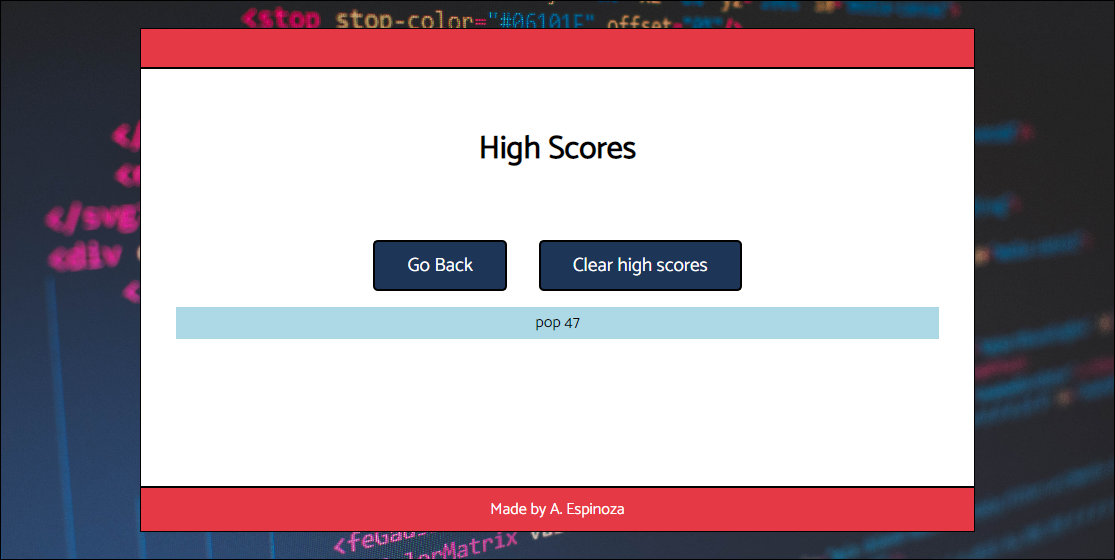
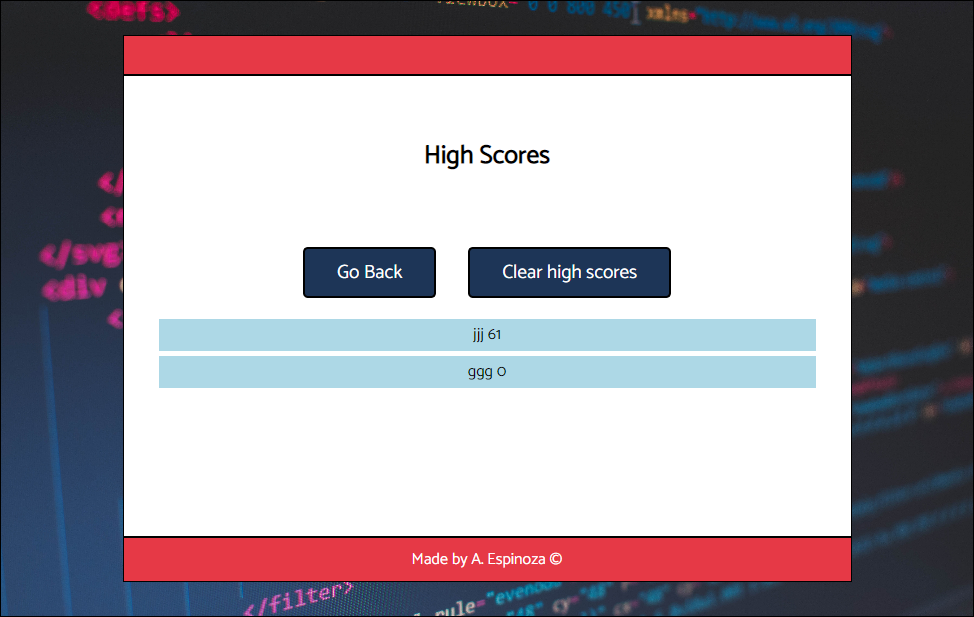
Fixed HTML file structure. Replaced README file screenshot image

diff --git a/index.js b/index.js
@@ -21,7 +21,7 @@ let highScoreList = document.querySelector('.highScoresList')
 let highScoreButtons = document.querySelector('.highScoresbuttons')
 let allScores= []
 
-// questions bank
+// Questions Bank
 const questions = [{
     question: 'Commonly used data types do NOT include:',
     answers: ['alerts', 'strings','booleans','numbers'],
@@ -57,9 +57,7 @@ const questions = [{
 } ]
 
 // Start Game
-
 startBtn.addEventListener('click', startGame)
-
 highScoresEl.addEventListener('click', highScores)
 
 function startGame() {
@@ -70,6 +68,7 @@ function startGame() {
     startQuestion()
 }
 
+// Start timer. stopGame function called when time reaches 0 or all questions answered
 function startTimer() {
     let timerInterval= setInterval(function () {
         timerEl.textContent = 'Time: ' + secondsLeft
@@ -113,7 +112,6 @@ function startQuestion() {
                 console.log(questionIndex)
                 for (let i=0; i<4; i++) {
                     listAnswers.children[i].innerText = questions[questionIndex].answers[i]
-                    // console.log(questions[questionIndex].answers)
                 }
             } else {
                 stopGame()
@@ -122,7 +120,7 @@ function startQuestion() {
         }
   }              
 
-// all questions answered or time out function
+// all questions answered or out of time
 function stopGame() {
     questionText.textContent = 'All done!'
     instructionsText.textContent='Your answered: ' + correctCounter + ' questions correctly. Your score is: ' + secondsLeft
@@ -132,14 +130,13 @@ function stopGame() {
     saveInfoEl.style.display= 'block'
     // console.log(submitBtn)
     submitBtn.addEventListener('click', highScores)
-
     saveInfoEl.addEventListener('click', saveScore)
 }
 
 // high scores display
 function highScores() {
     highScoresEl.textContent= ''
-    timerEl.textContent = ""
+    timerEl.innerHTML = ""
     questionText.textContent = 'High Scores'
     rightResult.style.display= 'none'
     wrongResult.style.display= 'none'
@@ -155,10 +152,6 @@ function highScores() {
     goBackBtn.textContent = 'Go Back'
     highScoreButtons.appendChild(goBackBtn)
     goBackBtn.addEventListener('click', function(){
-        // questionIndex=0;
-        // // highScoreButtons.style.display='none'
-        // highScoreList.style.display='none'
-        // startQuestion()
         window.location.reload()
     })
 
@@ -177,10 +170,7 @@ function highScores() {
 
 // Check if there are previous local storage scores
 let scoresFromLocalStorage = JSON.parse(localStorage.getItem('allScores'))
-console.log(scoresFromLocalStorage)
-console.log(typeof scoresFromLocalStorage)
 if (scoresFromLocalStorage) {
-    // allScores.push(scoresFromLocalStorage)
     allScores= scoresFromLocalStorage
     console.log(allScores, typeof allScores)
 }
@@ -206,17 +196,14 @@ function saveScore(event) {
 function renderScores() {
     highScoreList.innerHTML=''
     if (allScores !== null) {
-        console.log(allScores) 
         for (let i=0; i<allScores.length; i++){
             let scoreText = document.createElement('p')
             scoreText.textContent = allScores[i].user + '  ' + allScores[i].score
-            scoreText.setAttribute('style', 'background-color: lightblue')
+            scoreText.setAttribute('style', 'background-color: lightblue; margin-top:5px')
             console.log(allScores[i].user, allScores[i].score)
             highScoreList.appendChild(scoreText)
-            highScoreList.style.display='block'
             }
     } else {    
         highScoreList.style.display='none'
     }
   }
-

diff --git a/assets/style.css b/assets/style.css
@@ -1,9 +1,11 @@
+/* Color variables */
 :root {
     --warmColor: #e63946;
     --lightBlue: #a8dadc;
     --darkBlue: #1d3557;
 }
 
+/* General format */
 * {
     margin:0;
     padding: 0;
@@ -11,6 +13,7 @@
     font-family: catamaran, 'Franklin Gothic Medium', 'Arial Narrow', Arial, sans-serif;
 }
 
+/* Background Area */
 body {
     display: flex;
     border: solid thin black;
@@ -22,22 +25,33 @@ body {
     background: url(./Images/florian-olivo-4hbJ-eymZ1o-unsplash.jpg) no-repeat center center/ cover;
 }
 
-nav {
+/* NavBar with timer and link to High Scores */
+header {
     padding: 0.5rem;
     background-color: var(--warmColor);
     color: white;
     width: 75%;
     min-height: 2.5rem;
-    display: flex;
-    justify-content: space-between;
+    
     border: solid thin black;
 }
+
+nav {
+    display: flex;
+    justify-content:space-between;
+    width: 100%;
+}
+
+/* header ul{
+    display: inline-block;
+} */
 
 nav a {
     text-decoration: none;
     color:white;
 }
 
+/* All buttons and answers */
 button {
     background-color: var(--darkBlue);
     padding: 0.5rem 2rem;
@@ -53,6 +67,7 @@ button:hover {
     color:var(--darkBlue)
 }
 
+/* Test Area */
 main {
     background-color: white;
     border: black solid thin;
@@ -77,6 +92,7 @@ footer {
     border: solid thin black;
 }
 
+/* Answers text and messages */
 .wrong-message,
 .correct-message {
     display: none;
@@ -88,13 +104,13 @@ footer {
 .listAnswersEl {
     display: flex;
     flex-direction: column;
-
 }
 
 #answerAEl, #answerBEl, #answerCEl, #answerDEl, .save-info {
     display: none;
 }
 
+/* Save Initials Input */
 textarea {
     padding: 5px 0;
     border: thin solid silver;
@@ -108,6 +124,7 @@ textarea:focus {
     border: 3px solid silver;   
 }
 
+/* Media Queries for tablet */
 @media (max-width: 690px) {
     main h1{
         font-size: 1.5rem;
@@ -119,6 +136,7 @@ textarea:focus {
     }
 }
 
+/* Media Queries for phone */
   @media (max-width: 500px) {
     main h1{
         font-size: 1.3rem;
@@ -129,4 +147,3 @@ textarea:focus {
       padding: 10px
     }
   }
-  

diff --git a/index.html b/index.html
@@ -9,11 +9,13 @@
     </head>
 
     <body>
-        <!-- Instructions and Questions -->
-        <nav class="navbar">
-            <a href='#' class="HighScores">View high scores</a>
-            <p class="timer-El">Time: </p>
-        </nav>
+        <header>
+            <nav class="navbar">
+                <a href='#' class="HighScores">View high scores</a>
+                <a class="timer-El">Time: </a>
+            </nav>
+        </header>
+                <!-- Instructions and Questions -->
         <main>
             <h1 class="questionEl">Coding Quiz Challenge</h1>
                 <p class="listAnswersEl">
@@ -26,22 +28,22 @@
             <button id="startEl">Start Quiz</button>
             <p class="correct-message">Correct! &#x2713</p>
             <p class="wrong-message">Wrong! &#x2715</p>
-           <!-- Final Score and Enter Initials Part -->
+                 <!-- Final Score and Enter Initials -->
             <section class="save-info">
                 <label for="initials-text">Enter your initials: </label>
                 <textarea id="initials-el" name="Enter your initials" maxlength="4" minlength="1"></textarea><button id="submit-btn">Submit</button>
             </section>
-            <!-- High Scores Display -->
+                 <!-- High Scores Display -->
             <section class='High-scores'>
                 <p class="highScoresbuttons"></p>
                 <p class="highScoresList"></p>
             </section>
         </main>
+
         <footer>
             <p>Made by A. Espinoza &#169 </p>
         </footer>
         <script src="index.js"></script>
     </body>
-
 
     </html>
